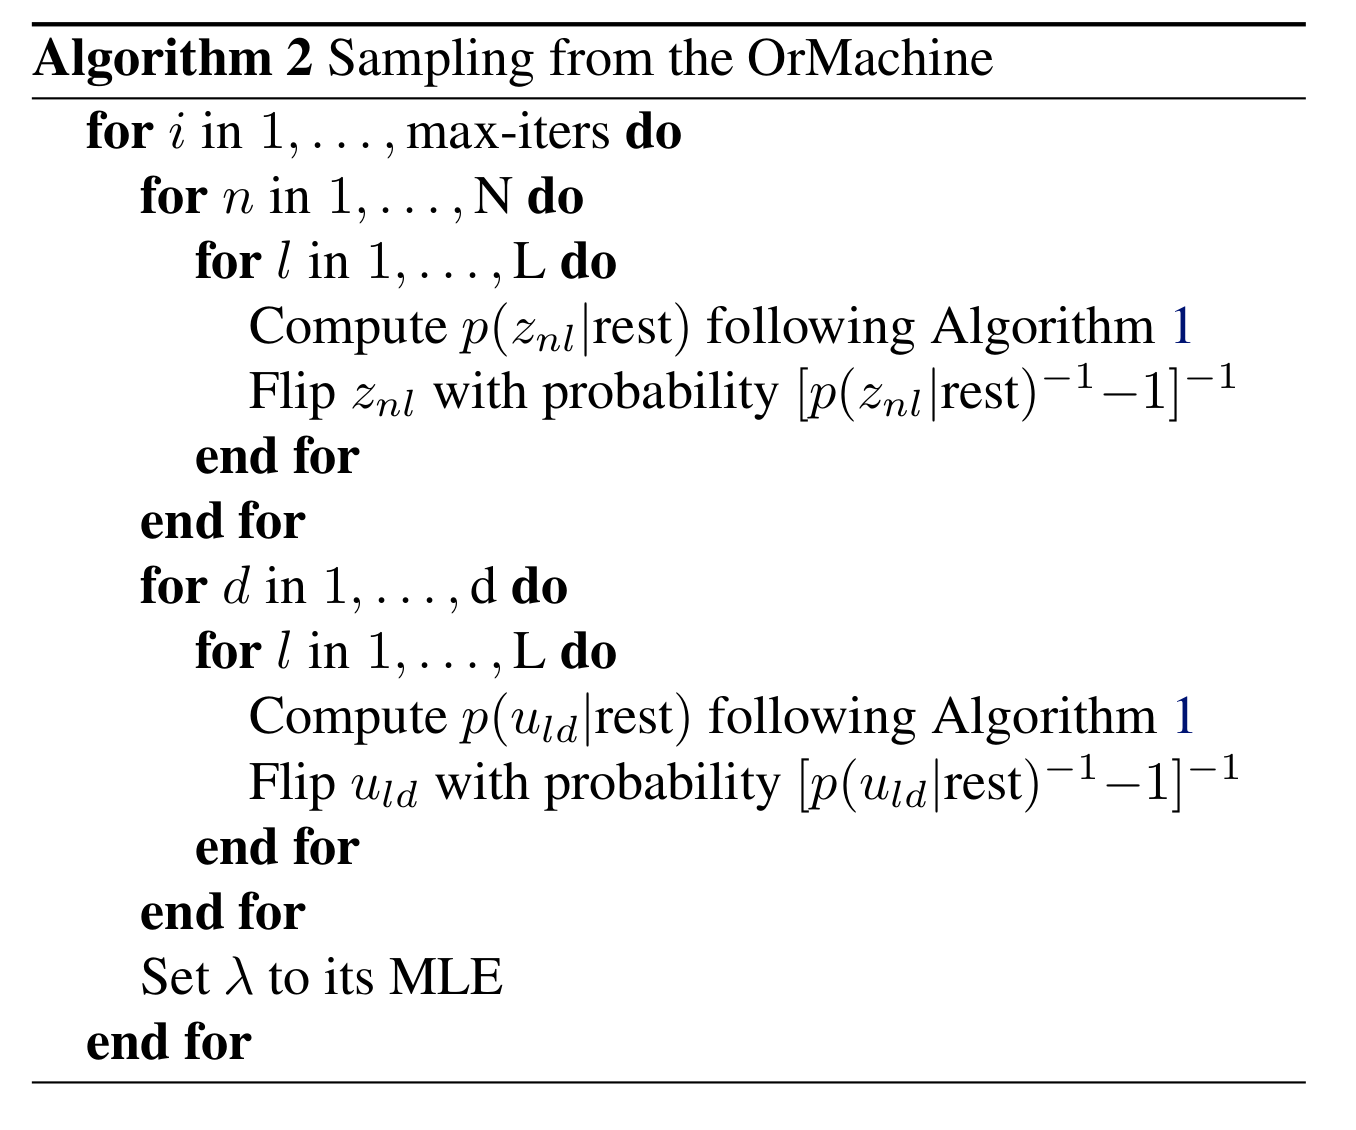
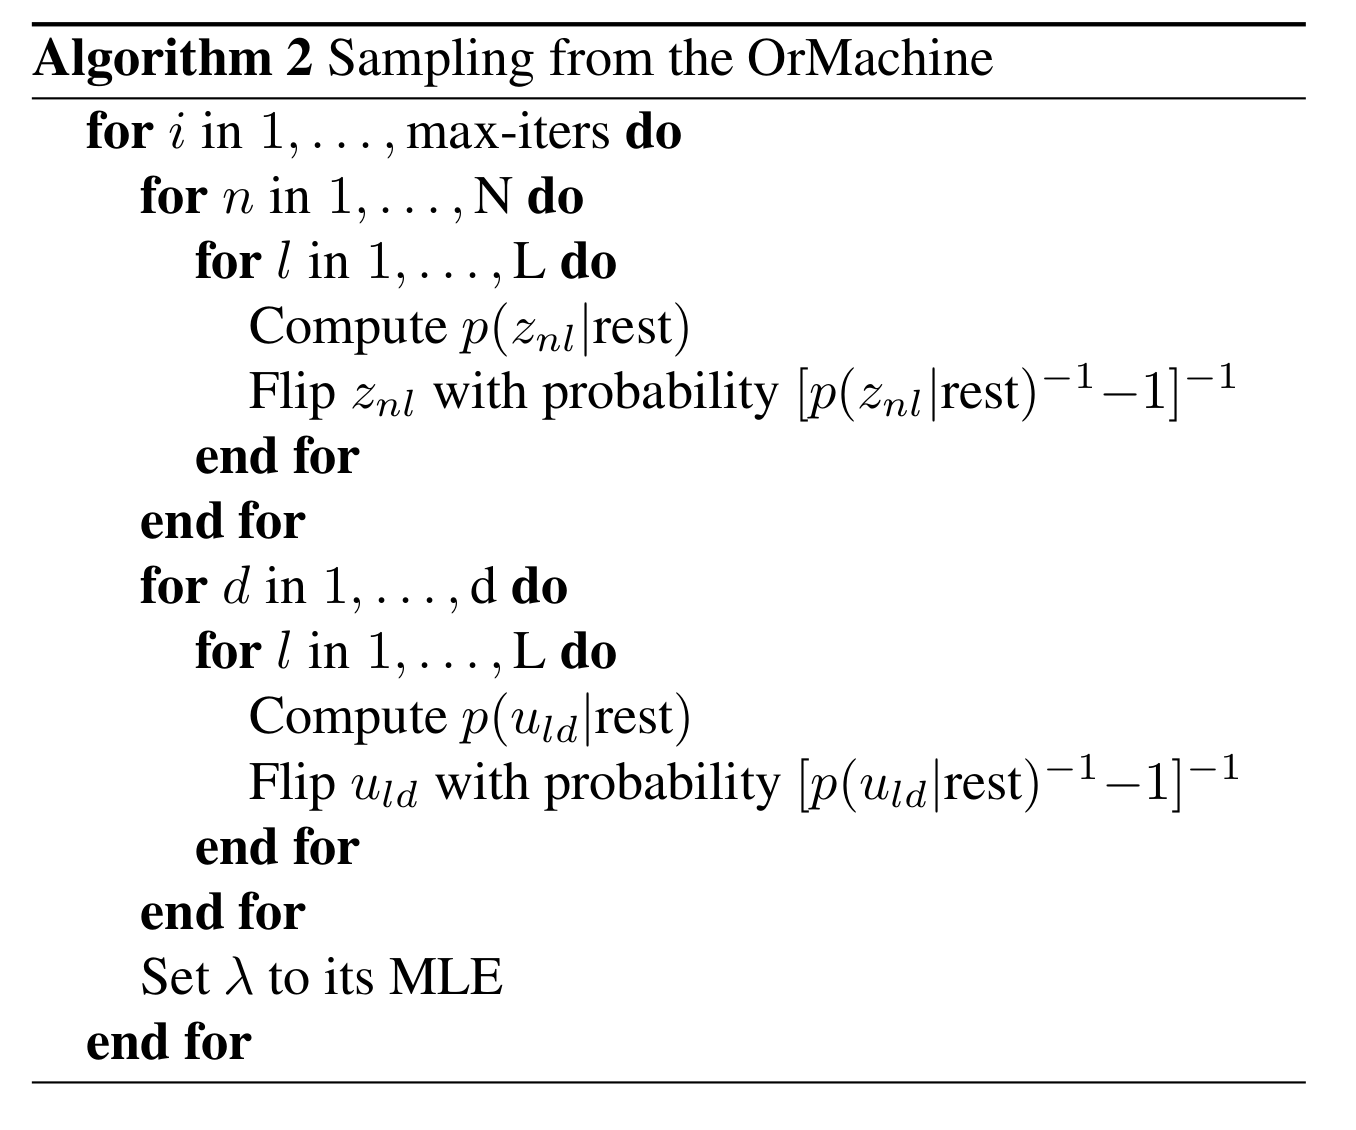
upate

Changed region(s): [[0.5265, 0.6195, 0.8982, 0.6504], [0.5265, 0.2788, 0.8982, 0.3097]]

diff --git a/index.html b/index.html
@@ -145,7 +145,7 @@ $$\;\;\;\; = \sigma\left[\lambda \tilde{x}_{nd} \left(1-2\prod\limits_{l}(1-z_{n
 $$ $$
 </p>
 <ul>
-<li data-fragment-index="4" class="fragment appear"><b>Computational shortcut:</b> Two criteria to skip the remaining inner products
+<li data-fragment-index="4" class="fragment appear"><b>Computational shortcut:</b>
 <ul>
 <li data-fragment-index="5" class="fragment appear">\(\color{darkgreen}{u_{ld} = 0}\) &rarr; No effect of \(z_{nl}\) on the likelihood.</li>
 <li data-fragment-index="6" class="fragment appear">\(\color{brown}{z_{nl'}u_{l'd} = 1}\) for \(\color{brown}{l' \neq l}\) \(\rightarrow\) \(x_{nd}\) is <b>explained away</b>.</li>
@@ -163,39 +163,13 @@ $$ $$
 </div>
 </section>
 <section id="slide-sec-2-2">
-<h3 id="sec-2-2">Implementation</h3>
-<div class="column" style="float:left; width: 100%">
-
-<div class="figure">
-<p><img src="./alg1_2.png" alt="alg1_2.png" width="50%" height="60%" />
-</p>
-</div>
-</div>
-
-</section>
-<section id="slide-sec-2-3">
-<h3 id="sec-2-3">Dispersion paramter \(\lambda\)</h3>
-<div class="column" style="float:left; width: 100%">
-<ul>
-<li>\(P\) counts how many entries \(x_{nd}\) are correctly predicted by the deterministic Boolean matrix product $$ P = \sum\limits_{n,d} I\left[x_{nd}=(1-2\prod\limits_{l}(1-z_{nl}u_{ld})\right] $$</li>
-<li>We can rewrite the likelihood
-$$ L = \sigma(\lambda)^P \sigma(-\lambda)^{(ND-P)} $$</li>
-<li>We find the MLE of \(\sigma(\lambda)\) in <b>closed form</b>:</li>
-
-</ul>
-<p>
-$$ \sigma(\lambda)_{\text{mle}} =\frac{P}{ND}\;. $$
-</p>
-</div>
-</section>
-<section id="slide-sec-2-4">
-<h3 id="sec-2-4">A modified binary state Gibbs sampler</h3>
+<h3 id="sec-2-2">A modified binary state Gibbs sampler</h3>
 <div class="column" style="float:left; width: 100%">
 <ul>
 <li data-fragment-index="1" class="fragment appear">Old state: \(\mathbf{x}\), new state: \(\mathbf{y}\).</li>
 <li data-fragment-index="2" class="fragment appear">Gibbs sampler: Draw a new value from the full conditional \(p(y|\text{rest})\).</li>
 <li data-fragment-index="3" class="fragment appear">Here, we propose value \(y\) <b>different from the</b> \(x\) with probability 1.</li>
-<li data-fragment-index="4" class="fragment appear">Metropolis-Hasting acceptance probability equals mutatoin probability: $$ \frac{p(y|\text{rest}) q(x|y)}{p(x|\text{rest}) q(y|x)} = \frac{p(y|\text{rest})}{1-p(y|\text{rest})} \ge p(y|\text{rest})$$</li>
+<li data-fragment-index="4" class="fragment appear">Metropolis-Hasting: $$ p(\text{accept}) = p(\text{mutate})= \frac{p(y|\text{rest}) q(x|y)}{p(x|\text{rest}) q(y|x)} = \frac{p(y|\text{rest})}{1-p(y|\text{rest})} \ge p(y|\text{rest})$$</li>
 
 </ul>
 
@@ -218,9 +192,25 @@ $$ \sigma(\lambda)_{\text{mle}} =\frac{P}{ND}\;. $$
 
 </ul>
 </div>
+
 </section>
-<section id="slide-sec-2-5">
-<h3 id="sec-2-5">Metropolised Gibbs sampler - Algorithm</h3>
+<section id="slide-sec-2-3">
+<h3 id="sec-2-3">Dispersion paramter \(\lambda\)</h3>
+<div class="column" style="float:left; width: 100%">
+<ul>
+<li>How many entries are correctly predicted by the deterministic Boolean product $$ P = \sum\limits_{n,d} I\left[x_{nd}=(1-2\prod\limits_{l}(1-z_{nl}u_{ld})\right] $$</li>
+<li>We can rewrite the likelihood
+$$ L = \sigma(\lambda)^P \sigma(-\lambda)^{(ND-P)} $$</li>
+<li>We find the MLE of \(\sigma(\lambda)\) in <b>closed form</b>:</li>
+
+</ul>
+<p>
+$$ \sigma(\lambda)_{\text{mle}} =\frac{P}{ND}\;. $$
+</p>
+</div>
+</section>
+<section id="slide-sec-2-4">
+<h3 id="sec-2-4">Metropolised Gibbs sampler - Algorithm</h3>
 <div class="column" style="float:left; width: 100%">
 
 <div class="figure">
@@ -292,27 +282,11 @@ $$ p(z_{nl}|\text{rest}) = \sigma\left[\lambda \tilde{z}_{nl} \sum\limits_d \til
 </div>
 </section>
 <section id="slide-sec-3-3">
-<h3 id="sec-3-3">MovieLense</h3>
-<div class="column" style="float:left; width: 50%">
-<p>
-<img src="./movielense1.png" alt="movielense1.png" width="85%" height="50%" />
-Percentages of correctly predicted, unobserved movie ratings.
-</p>
-</div>
-<div class="column" style="float:left; width: 50%">
-
-<div class="figure">
-<p><img src="./ml_roc.png" alt="ml_roc.png" width="85%" height="50%" />
-</p>
-</div>
-</div>
-</section>
-<section id="slide-sec-3-4">
-<h3 id="sec-3-4">Single cell data II - 1.3 Million Brain Cells x 20k genes (E18 Mice)</h3>
-<div class="outline-text-3" id="text-3-4">
+<h3 id="sec-3-3">Single cell data II - 1.3 Million Brain Cells x 20k genes (E18 Mice)</h3>
+<div class="outline-text-3" id="text-3-3">
 </div></section>
-<section id="slide-sec-3-4-1">
-<h4 id="sec-3-4-1">Calculator Digit Hierarchy</h4>
+<section id="slide-sec-3-3-1">
+<h4 id="sec-3-3-1">Calculator Digit Hierarchy</h4>
 <div class="column" style="float:left; width: 100%">
 
 <div class="figure">
@@ -320,13 +294,13 @@ Percentages of correctly predicted, unobserved movie ratings.
 </p>
 </div>
 <ul>
-<li>Infer OrMachines of different dimensionality on noise-free calculator digits</li>
+<li>OrMachines of different dimensionality on noise-free calculator digits</li>
 
 </ul>
 </div>
 </section>
-<section id="slide-sec-3-4-2">
-<h4 id="sec-3-4-2">Gene patterns &#x2013; Cell representations</h4>
+<section id="slide-sec-3-3-2">
+<h4 id="sec-3-3-2">Gene patterns &#x2013; Cell representations</h4>
 <div class="column" style="float:left; width: 100%">
 
 <div class="figure">
@@ -340,8 +314,8 @@ Percentages of correctly predicted, unobserved movie ratings.
 </div>
 </div>
 </section>
-<section id="slide-sec-3-5">
-<h3 id="sec-3-5">Deep noisy calculator digits</h3>
+<section id="slide-sec-3-4">
+<h3 id="sec-3-4">Deep noisy calculator digits</h3>
 <div class="column" style="float:left; width: 100%">
 
 <div class="figure">
@@ -355,12 +329,12 @@ Percentages of correctly predicted, unobserved movie ratings.
 </ul>
 </div>
 </section>
-<section id="slide-sec-3-6">
-<h3 id="sec-3-6">Pancan and pathway data</h3>
-<div class="outline-text-3" id="text-3-6">
+<section id="slide-sec-3-5">
+<h3 id="sec-3-5">Pancan and pathway data</h3>
+<div class="outline-text-3" id="text-3-5">
 </div></section>
-<section id="slide-sec-3-6-1">
-<h4 id="sec-3-6-1">Setup: Combine Layers of OrMachines</h4>
+<section id="slide-sec-3-5-1">
+<h4 id="sec-3-5-1">Setup: Combine Layers of OrMachines</h4>
 <div class="column" style="float:left; width: 100%">
 
 <div class="figure">
@@ -369,8 +343,8 @@ Percentages of correctly predicted, unobserved movie ratings.
 </div>
 </div>
 </section>
-<section id="slide-sec-3-6-2">
-<h4 id="sec-3-6-2">"Data"</h4>
+<section id="slide-sec-3-5-2">
+<h4 id="sec-3-5-2">"Data"</h4>
 <div class="column" style="float:left; width: 100%">
 
 <div class="figure">
@@ -379,8 +353,8 @@ Percentages of correctly predicted, unobserved movie ratings.
 </div>
 </div>
 </section>
-<section id="slide-sec-3-6-3">
-<h4 id="sec-3-6-3">Embedding</h4>
+<section id="slide-sec-3-5-3">
+<h4 id="sec-3-5-3">Embedding</h4>
 <div class="column" style="float:left; width: 100%">
 
 <div class="figure">
@@ -389,8 +363,8 @@ Percentages of correctly predicted, unobserved movie ratings.
 </div>
 </div>
 </section>
-<section id="slide-sec-3-6-4">
-<h4 id="sec-3-6-4">Clustering via one-hot activations</h4>
+<section id="slide-sec-3-5-4">
+<h4 id="sec-3-5-4">Clustering via one-hot activations</h4>
 <div class="column" style="float:left; width: 100%">
 
 <div class="figure">

diff --git a/mathjax_local.js b/mathjax_local.js
@@ -1,4 +1,3 @@
 TeX: {
     extensions: ["color.js"]
 }
-
